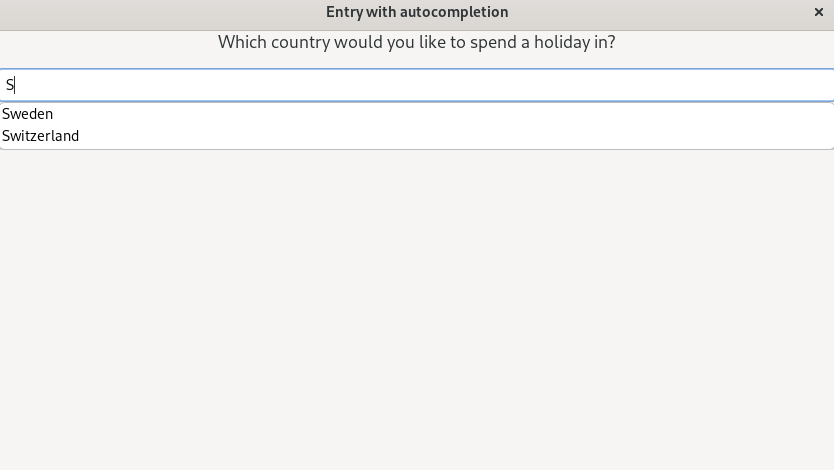
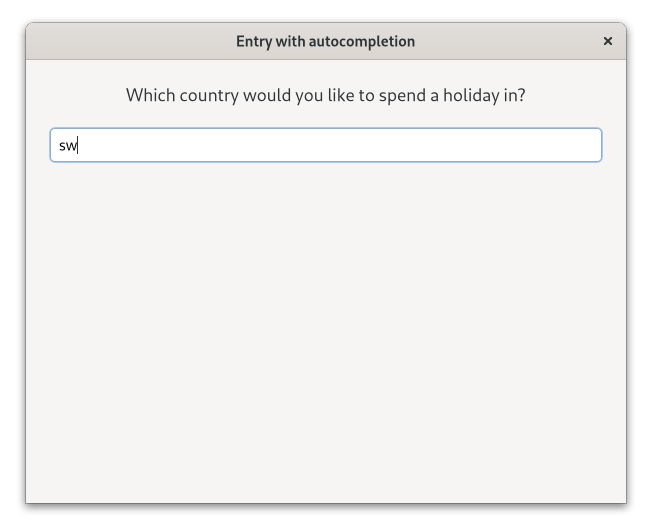
examples: make entry completion look nicer

Changed region(s): [[0.0, 0.0, 1.0, 0.983]]

diff --git a/examples/entry_completion/main.rs b/examples/entry_completion/main.rs
@@ -3,10 +3,7 @@ use gtk::prelude::*;
 
 use glib::Type;
 use gtk::gio::SimpleAction;
-use gtk::{
-    Application, ApplicationWindow, Box as Box_, Entry, EntryCompletion, Label, ListStore,
-    Orientation,
-};
+use gtk::{Application, Entry, EntryCompletion, Label, ListStore, Orientation};
 
 struct Data {
     description: String,
@@ -38,9 +35,12 @@ fn create_list_model() -> ListStore {
 
 fn build_ui(application: &Application) {
     // create the main window
-    let window = ApplicationWindow::new(application);
-    window.set_title(Some("Entry with autocompletion"));
-    window.set_default_size(840, 480);
+    let window = gtk::ApplicationWindowBuilder::new()
+        .application(application)
+        .title("Entry with autocompletion")
+        .default_width(600)
+        .default_height(480)
+        .build();
 
     // Create a title label
     let win_title = Label::new(None);
@@ -65,7 +65,14 @@ fn build_ui(application: &Application) {
     let input_field = Entry::new();
     input_field.set_completion(Some(&completion_countries));
 
-    let row = Box_::new(Orientation::Vertical, 5);
+    let row = gtk::BoxBuilder::new()
+        .orientation(Orientation::Vertical)
+        .spacing(12)
+        .margin_start(24)
+        .margin_end(24)
+        .margin_top(24)
+        .margin_bottom(24)
+        .build();
     row.append(&win_title);
     input_field.set_margin_top(10);
     row.append(&input_field);
